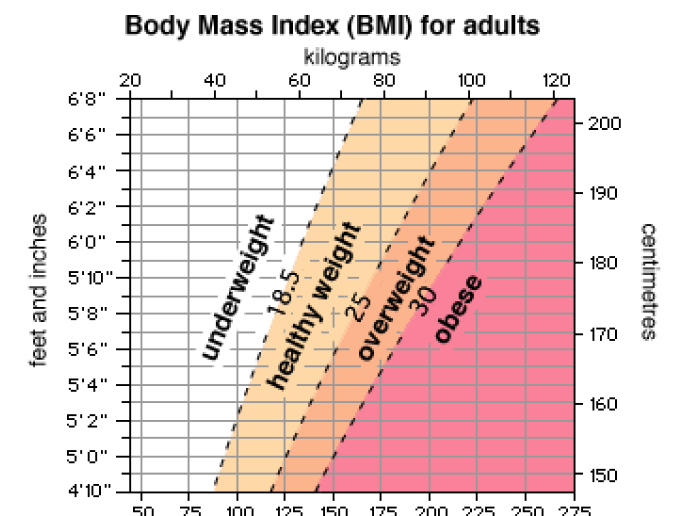
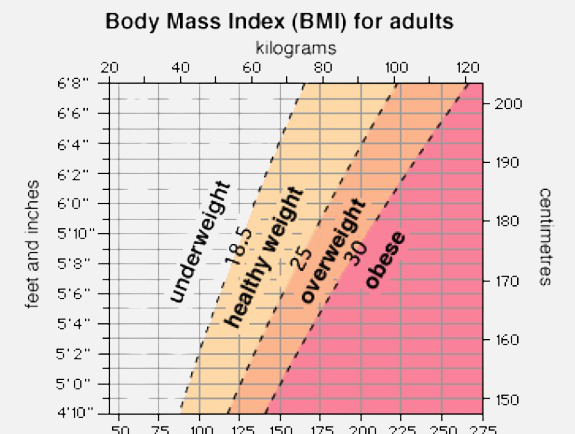
chore: Update tab layout colors and add NunitoSans font

diff --git a/app/(tabs)/diagnosis.tsx b/app/(tabs)/diagnosis.tsx
@@ -96,7 +96,7 @@ export default function TabTwoScreen() {
       </Text>
       <View style={styles.gaugeContainer}>
         <GaugeChart value={imt} max={40} />
-        <View style={{marginTop: 100, marginBottom : 80, width: '80%', height: 200}}>
+        <View style={{marginTop: 100, marginBottom : 50, width: '80%', height: 200}}>
           <Image source={require('../../assets/images/bmichart.png')} style={{width: '100%', height: '100%'}} />
         </View>
         <SleepGaugeChart value={sleepScore} max={8}/>

diff --git a/app/_layout.tsx b/app/_layout.tsx
@@ -15,6 +15,7 @@ export default function RootLayout() {
   const colorScheme = useColorScheme();
   const [loaded] = useFonts({
     SpaceMono: require('../assets/fonts/SpaceMono-Regular.ttf'),
+    NunitoSans: require('../assets/fonts/NunitoSans.ttf'),
   });
 
   useEffect(() => {

diff --git a/app/(tabs)/_layout.tsx b/app/(tabs)/_layout.tsx
@@ -7,6 +7,7 @@ import { Ionicons } from '@expo/vector-icons';
 import { View } from 'react-native';
 import * as NavigationBar from 'expo-navigation-bar';
 
+
 export default function TabLayout() {
   const mainColor = '#e96f0a';
   NavigationBar.setBackgroundColorAsync(mainColor);
